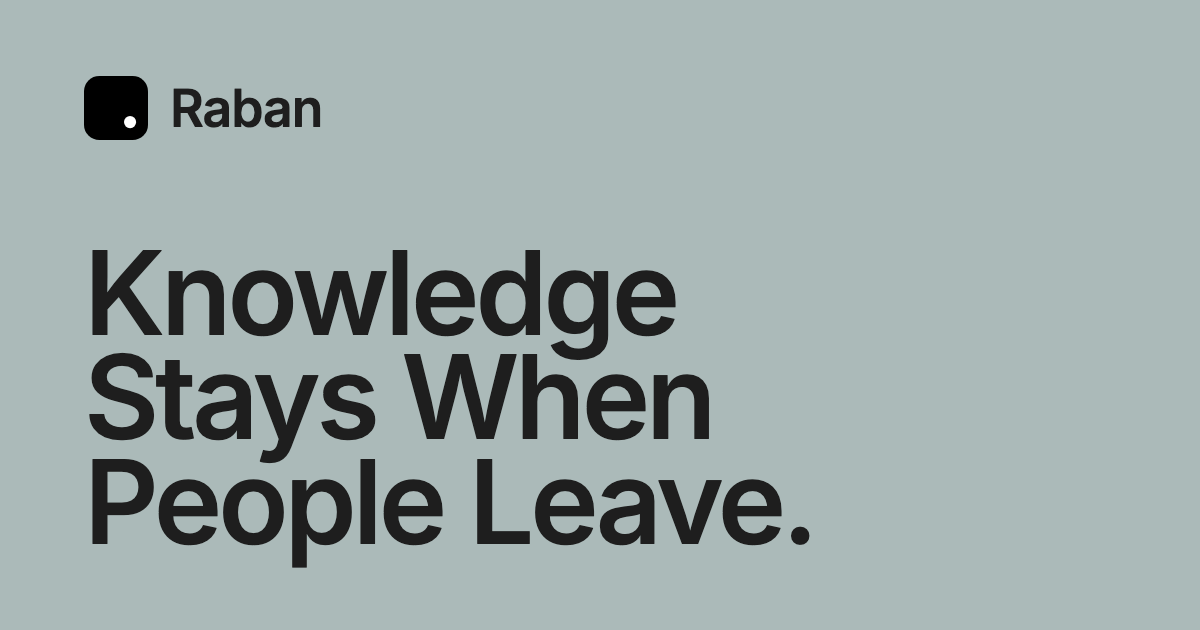
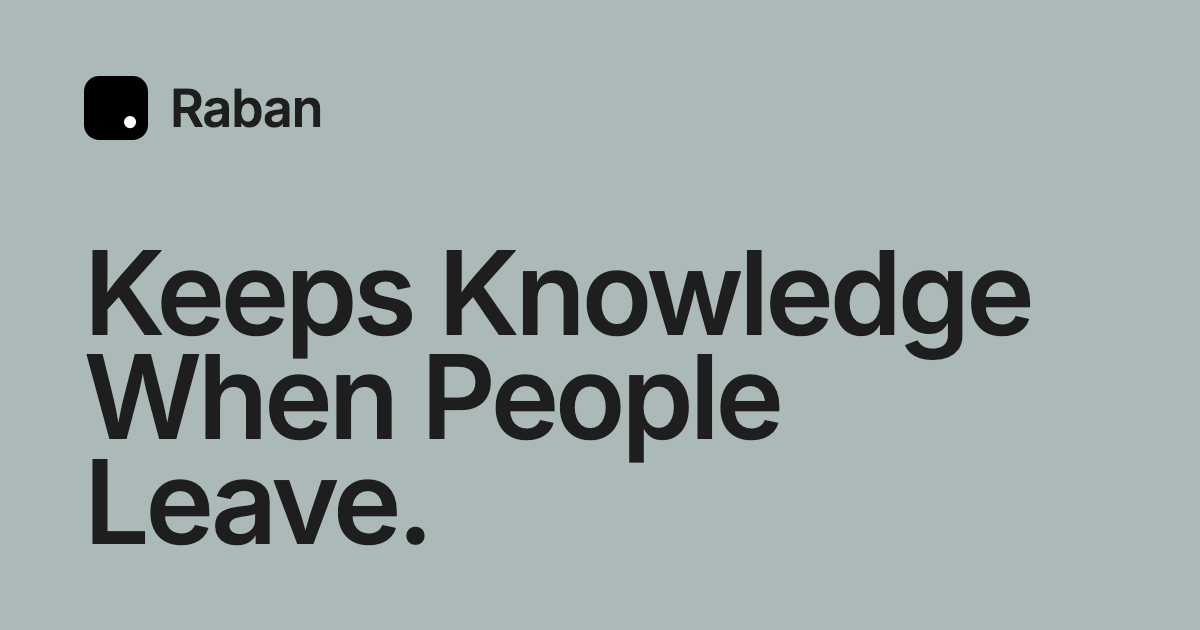
Englischer Leitsatz „Keeps knowledge when people leave.“, Wortmarke der Fußkarte mittig
Hero, Vorschaukarte und Alt-Text auf Englisch neu; die Karte nutzt die
volle Breite, damit beide Sprachen dreizeilig bleiben. Die Wortmarke steht
jetzt auf jeder Breite mittig auf ihrer Tinte (375–1728 px gemessen).

Changed region(s): [[0.0617, 0.3921, 0.8633, 0.9048]]

diff --git a/app/components/footer.tsx b/app/components/footer.tsx
@@ -99,11 +99,14 @@ export function Footer({ locale }: { locale: Locale }) {
         {/* The wordmark, as wide as the card and cut by its bottom edge: the
             negative margin pulls the card's bottom up through the letters, so
             about a fifth of the capitals falls outside and is clipped. Sized in
-            container units, so it spans the card at every width. */}
+            container units, so it spans the card at every width, and centred
+            on its ink: the right padding takes back the tracking the last
+            letter carries and the R's side bearing (measured 375–1728px,
+            equal margins to the pixel; Johannes, 2026-09-30). */}
         <p
           aria-hidden="true"
           translate="no"
-          className="-mb-[5.2cqw] select-none px-[var(--gutter)] text-[35cqw] font-medium leading-[0.8] tracking-[-0.06em] md:px-14"
+          className="-mb-[5.2cqw] select-none pr-[0.075em] text-center text-[35cqw] font-medium leading-[0.8] tracking-[-0.06em]"
         >
           Raban
         </p>

diff --git a/app/layout.tsx b/app/layout.tsx
@@ -23,7 +23,7 @@ const PREVIEW = {
     title: "Raban – Knowing what stays",
     description:
       "Ask Raban and get the answer from your company's documents, with the source. If it isn't written down anywhere, Raban asks the person who knows.",
-    alt: "Raban. Knowledge stays when people leave.",
+    alt: "Raban. Keeps knowledge when people leave.",
     ogLocale: "en_US",
   },
 } as const;

diff --git a/app/(public)/page.tsx b/app/(public)/page.tsx
@@ -132,7 +132,7 @@ const T = {
     },
   },
   en: {
-    lede: "Knowledge stays when people leave.",
+    lede: "Keeps knowledge when people leave.",
     deck: "Ask Raban and get the answer from your company's documents, with the source. If it isn't written down anywhere, Raban asks the person who knows.",
     why: {
       label: "Why Raban",
